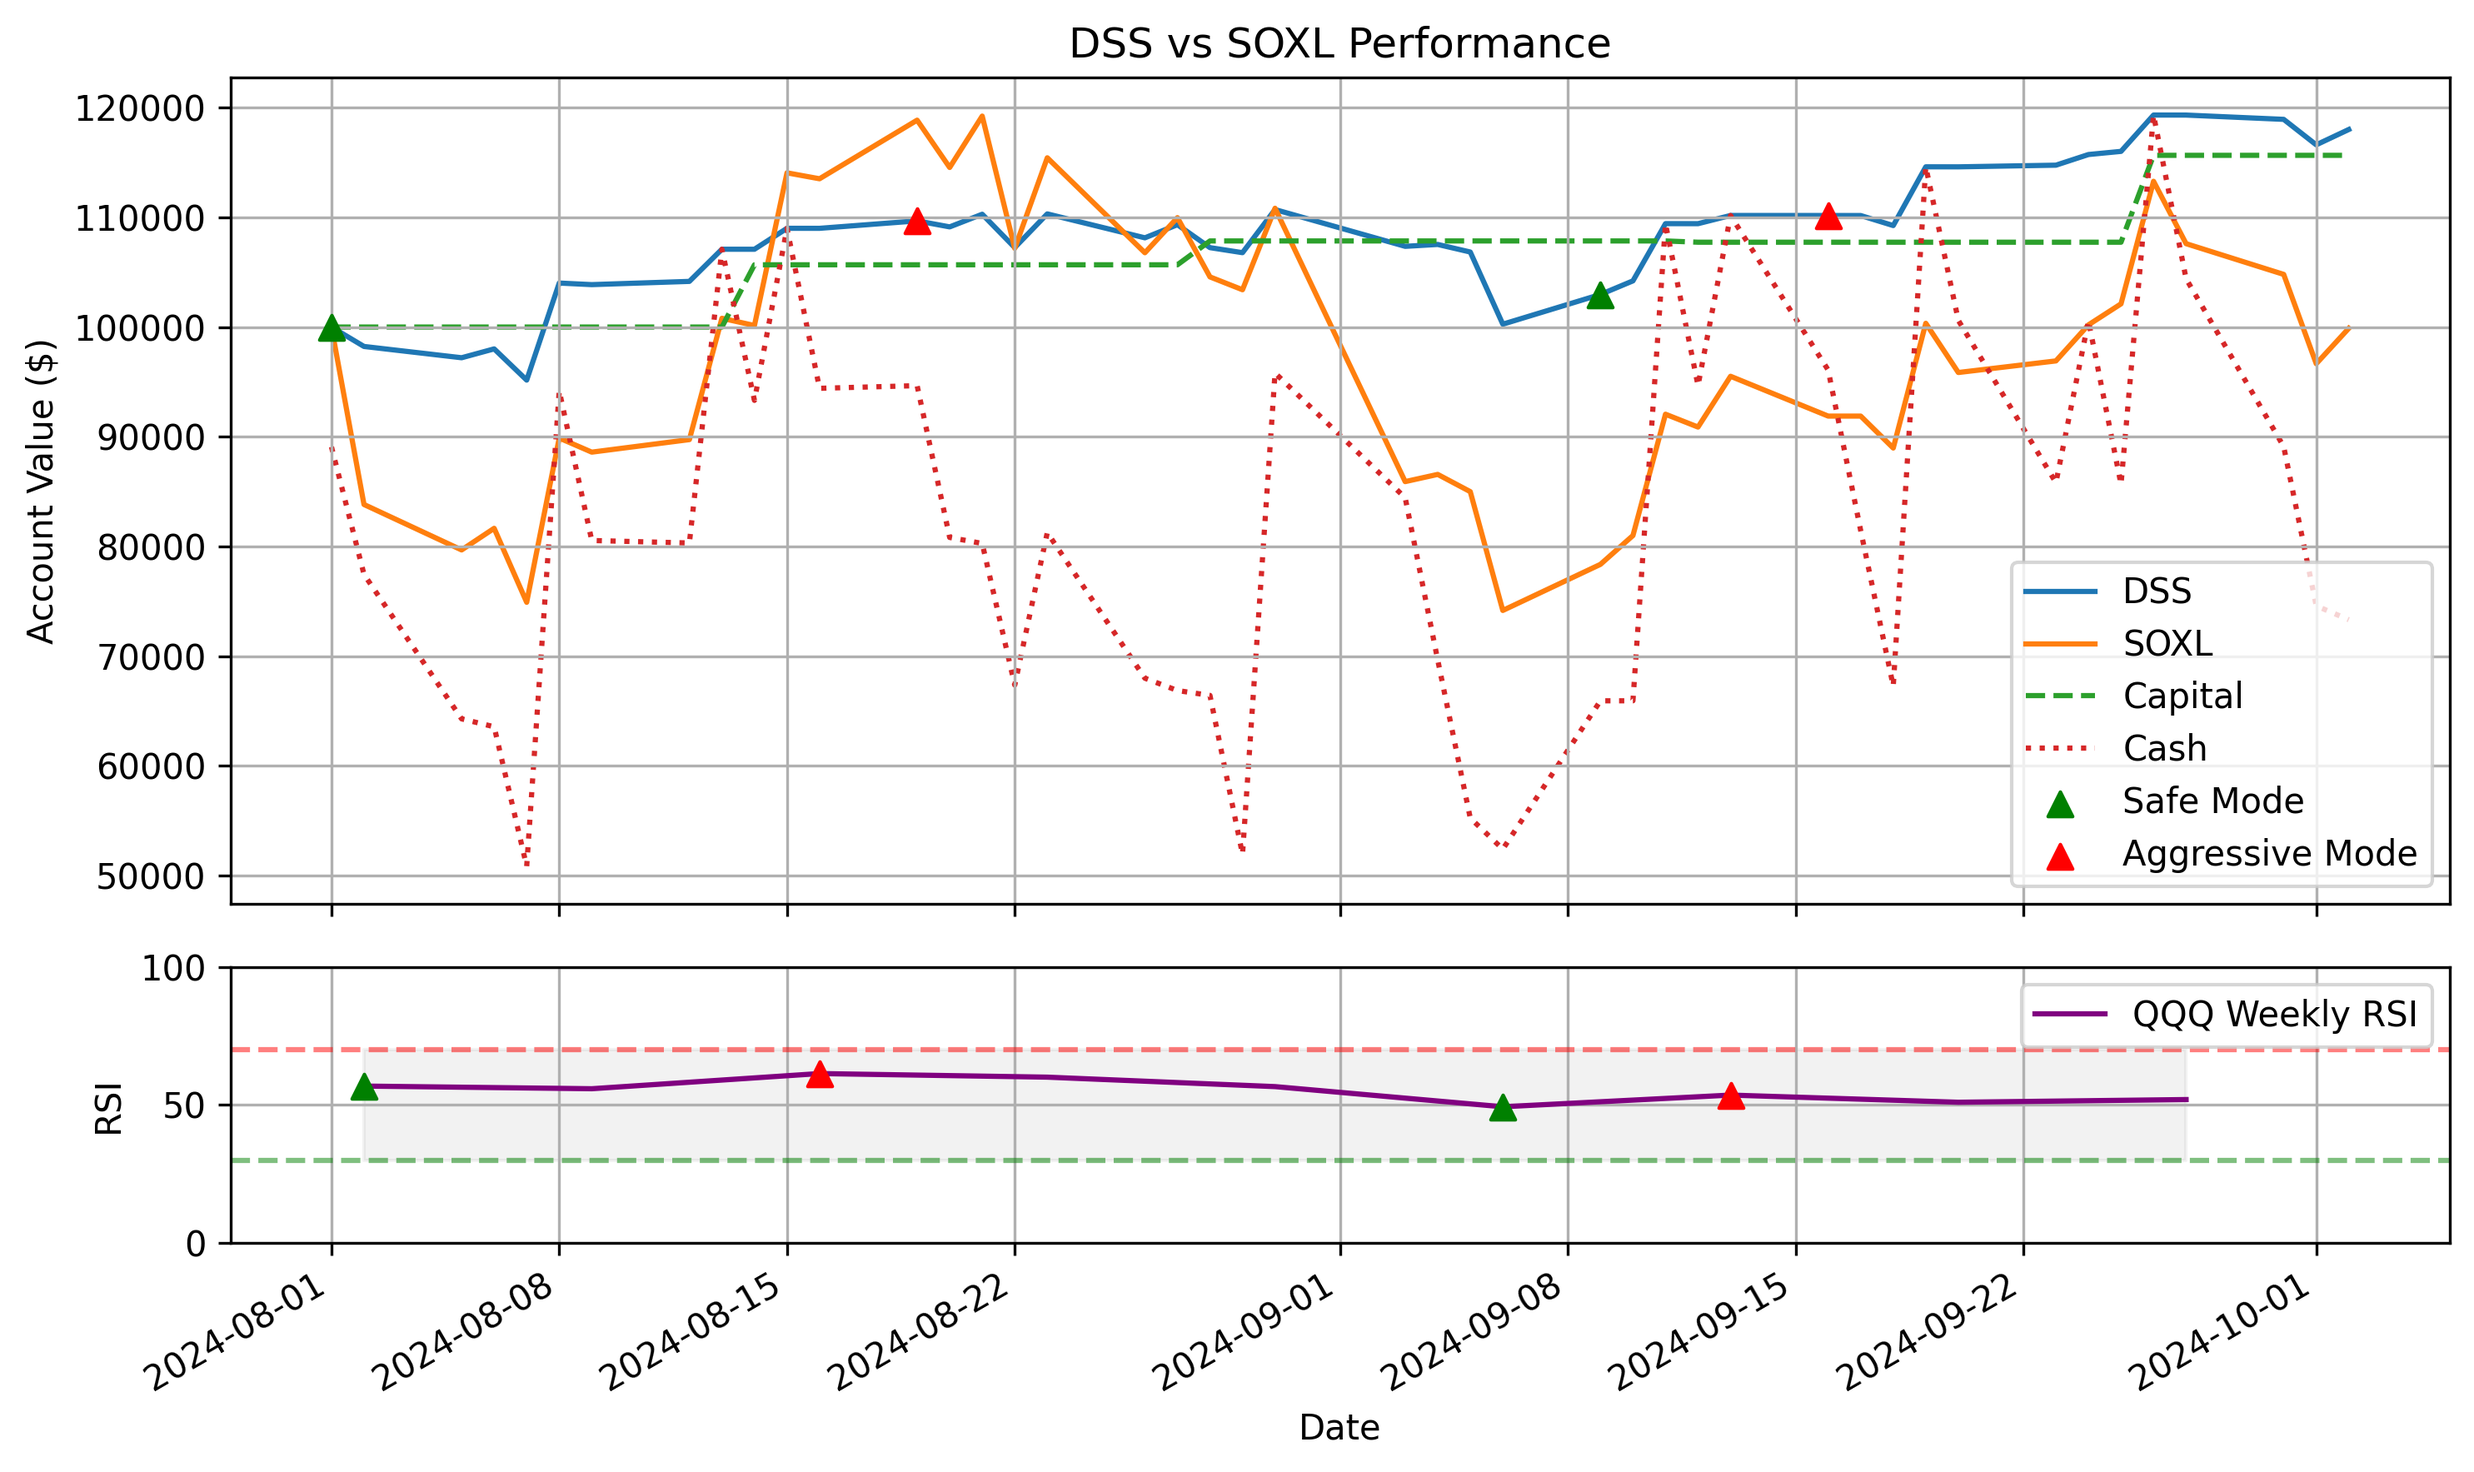
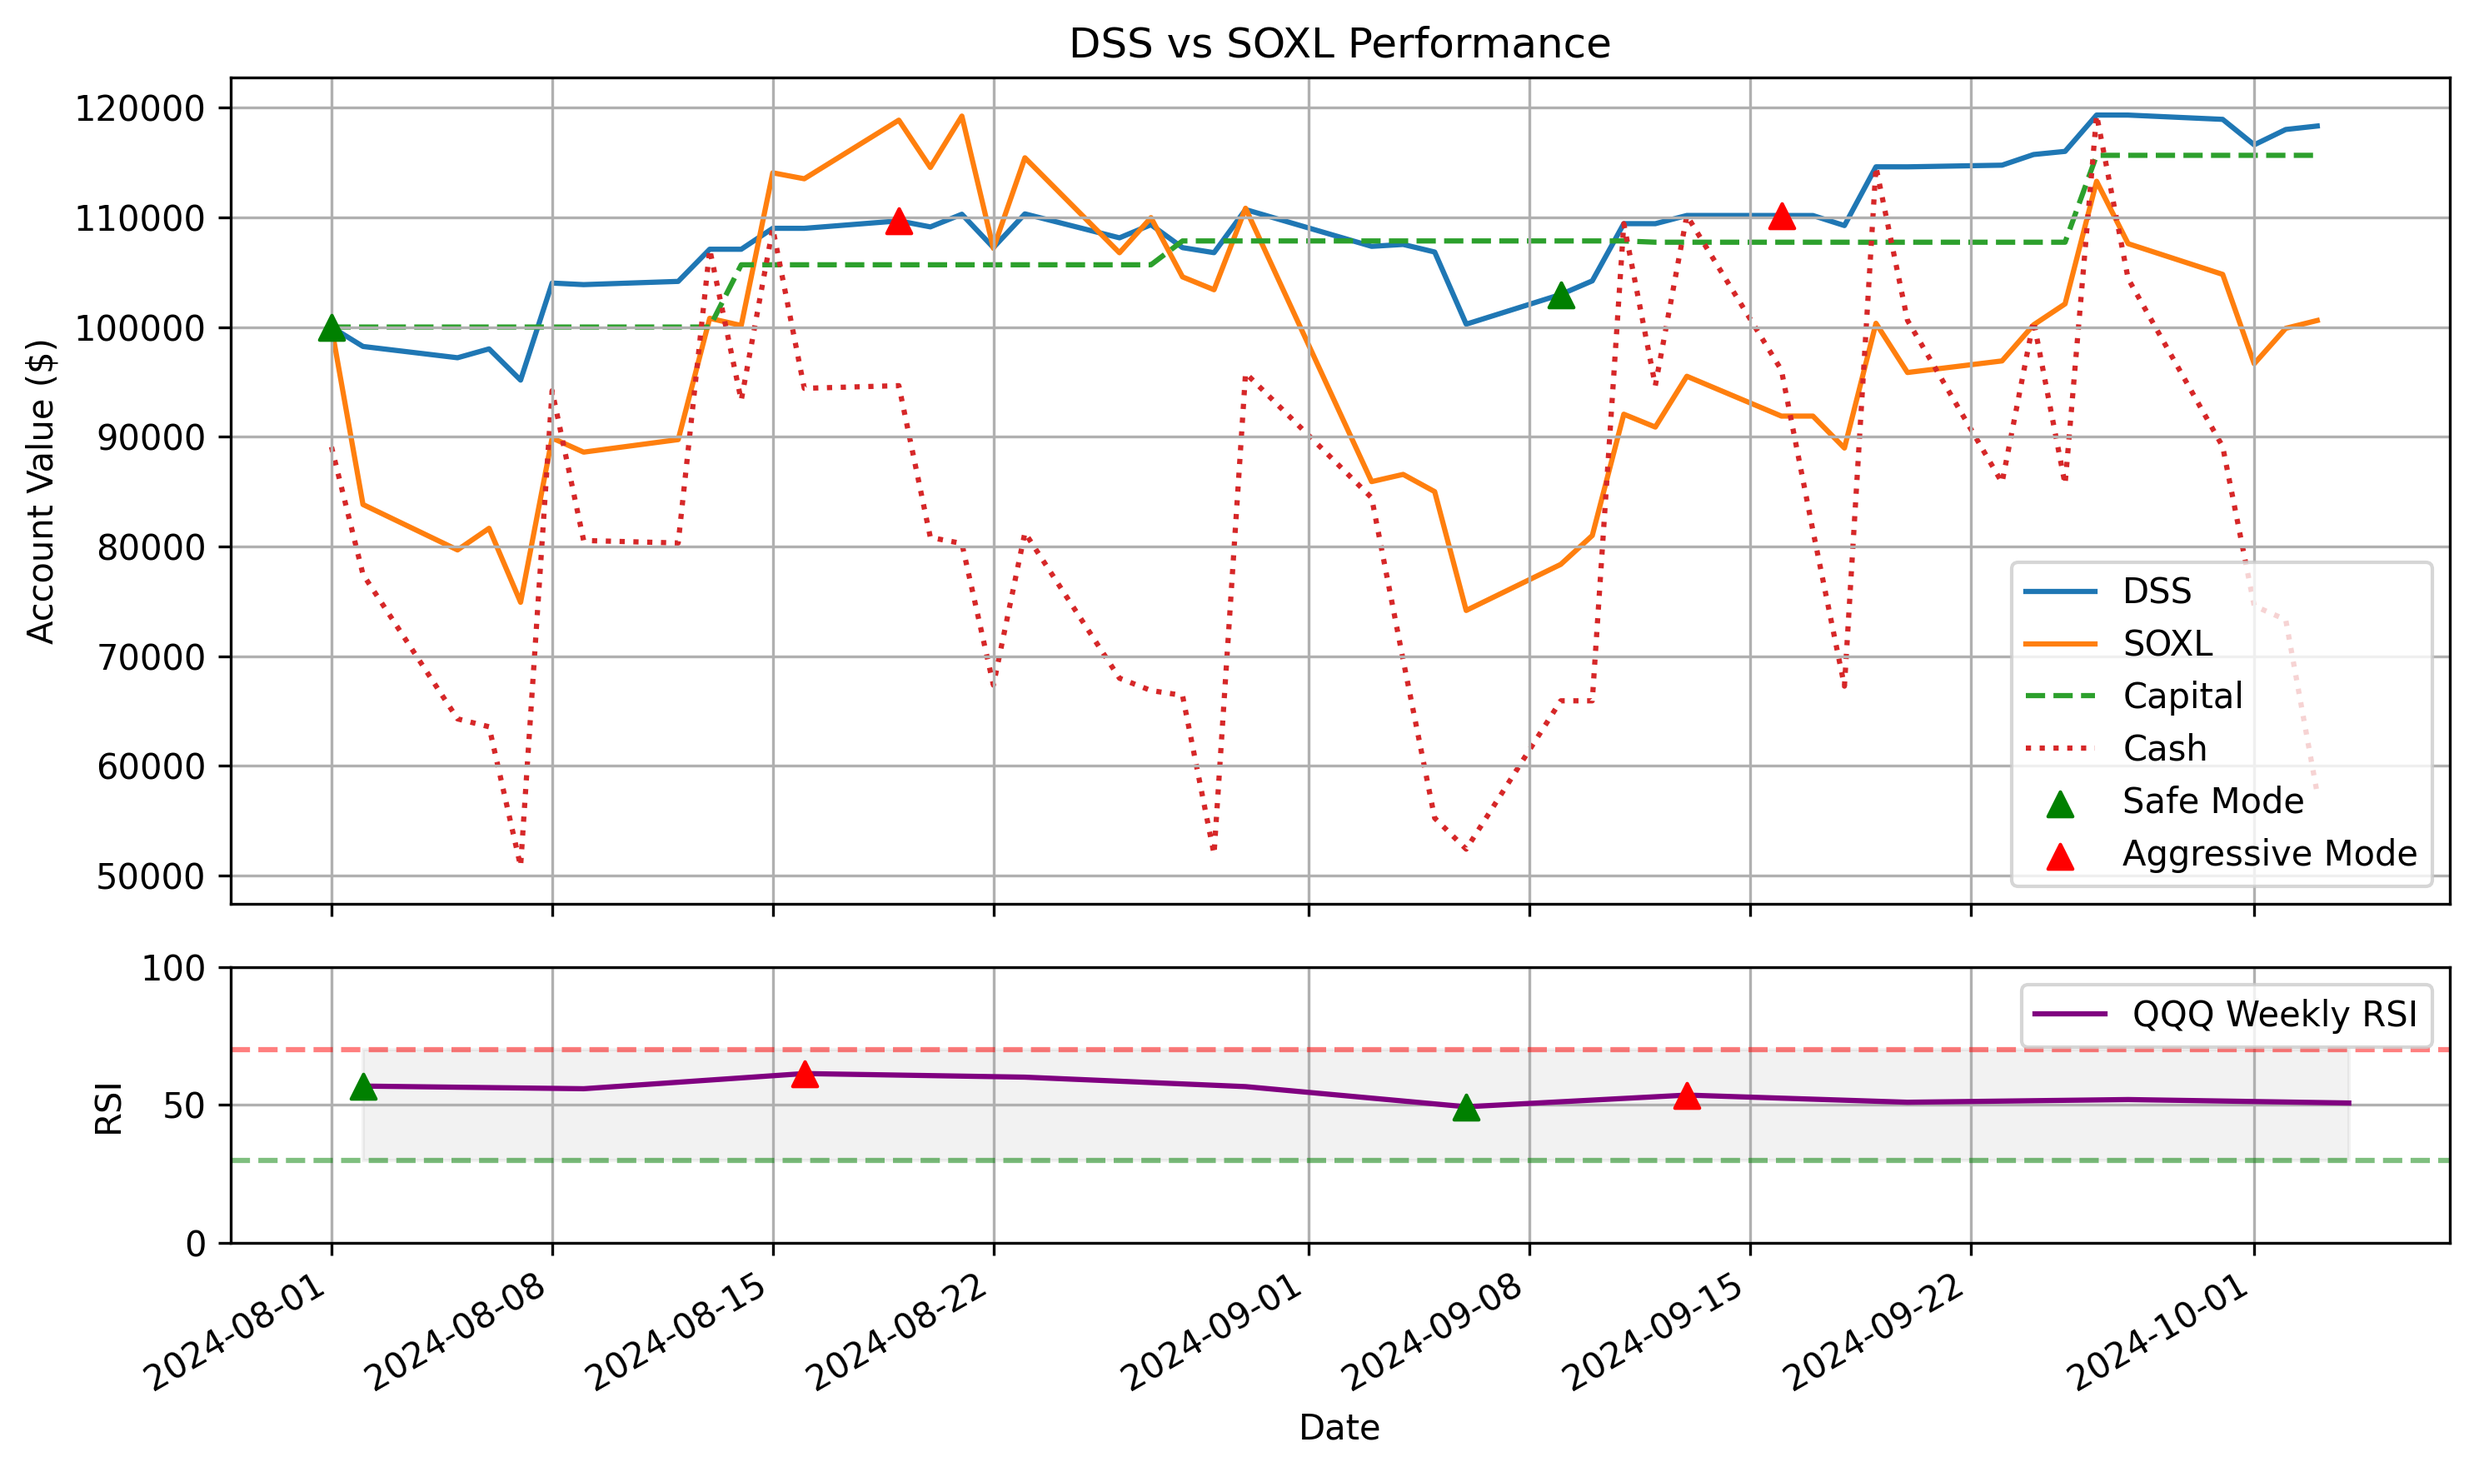
Update index.md and DSS_graph.png on Fri Oct  4 03:17:39 UTC 2024

diff --git a/index.md b/index.md
@@ -1,10 +1,10 @@
-# SOXL에 대한 LOC 주문 및 매개변수 - 2024-10-03
+# SOXL에 대한 LOC 주문 및 매개변수 - 2024-10-04
 
 # 일일 요약
 
 - **오늘의 모드:** aggressive
-- **현재 계좌 평가액:** $118003.36
-- **사용 가능 현금:** $73324.48
+- **현재 계좌 평가액:** $118319.69
+- **사용 가능 현금:** $57476.81
 
 ## 주문
 
@@ -13,7 +13,8 @@
 | SELL LOC | 38.6 | 396 | 2024-10-07 | 2024-09-27 | 37.66 | 공세 |
 | SELL LOC | 37.6 | 417 | 2024-10-08 | 2024-09-30 | 36.68 | 공세 |
 | SELL LOC | 35.83 | 465 | 2024-10-10 | 2024-10-02 | 34.96 | 공세 |
-| BUY LOC | 36.71 | 450 | 오늘 | - | - | - |
+| SELL LOC | 36.09 | 450 | 2024-10-11 | 2024-10-03 | 35.21 | 공세 |
+| BUY LOC | 36.97 | 446 | 오늘 | - | - | - |
 
 ## 모든 매개변수
 
@@ -26,10 +27,10 @@
 - **손실복리율:** 30.0%
 - **수수료율:** 0.02%
 - **거래 시작일:** 2024-08-01
-- **거래 종료일:** 2024-10-03
-- **거래 기간:** 63일
+- **거래 종료일:** 2024-10-04
+- **거래 기간:** 64일
 
-2024-10-03 03:18:04.095878 에 업데이트됨
+2024-10-04 03:17:38.818422 에 업데이트됨
 
 ## DSS 그래프
 
